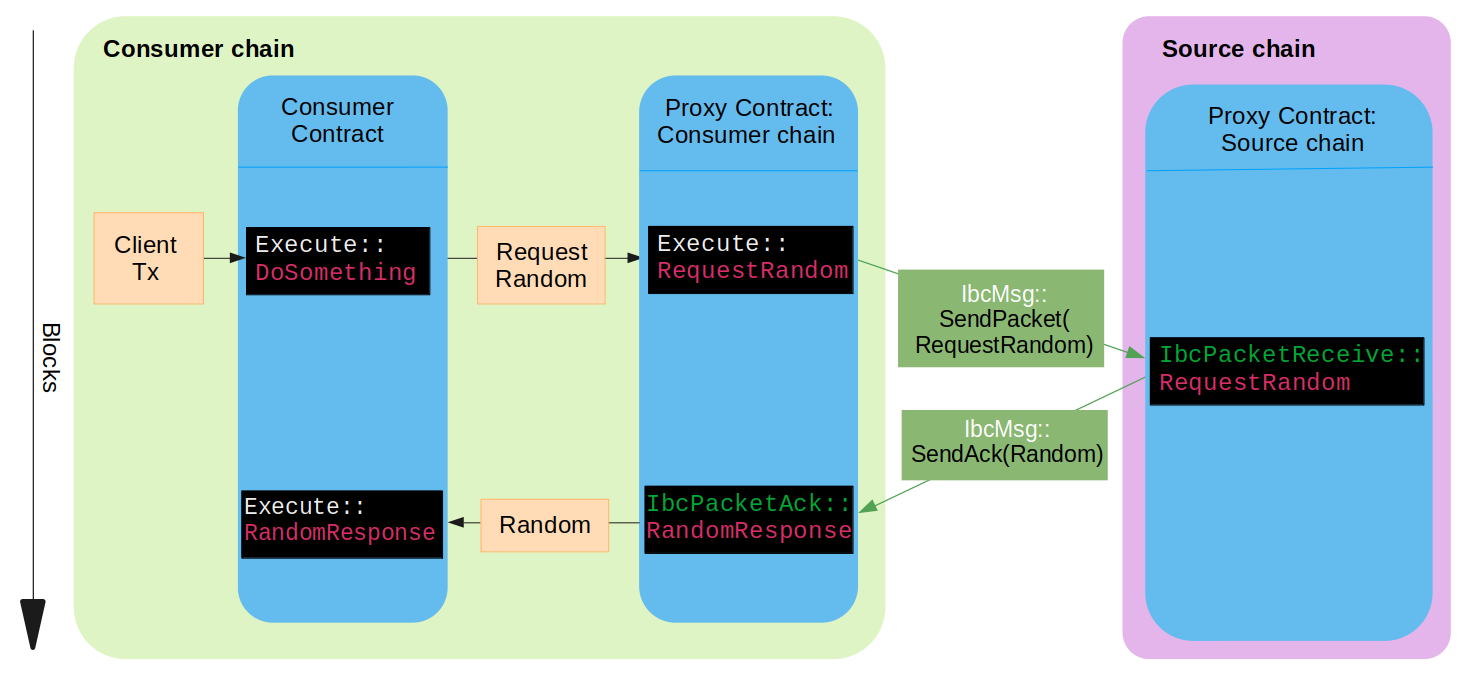
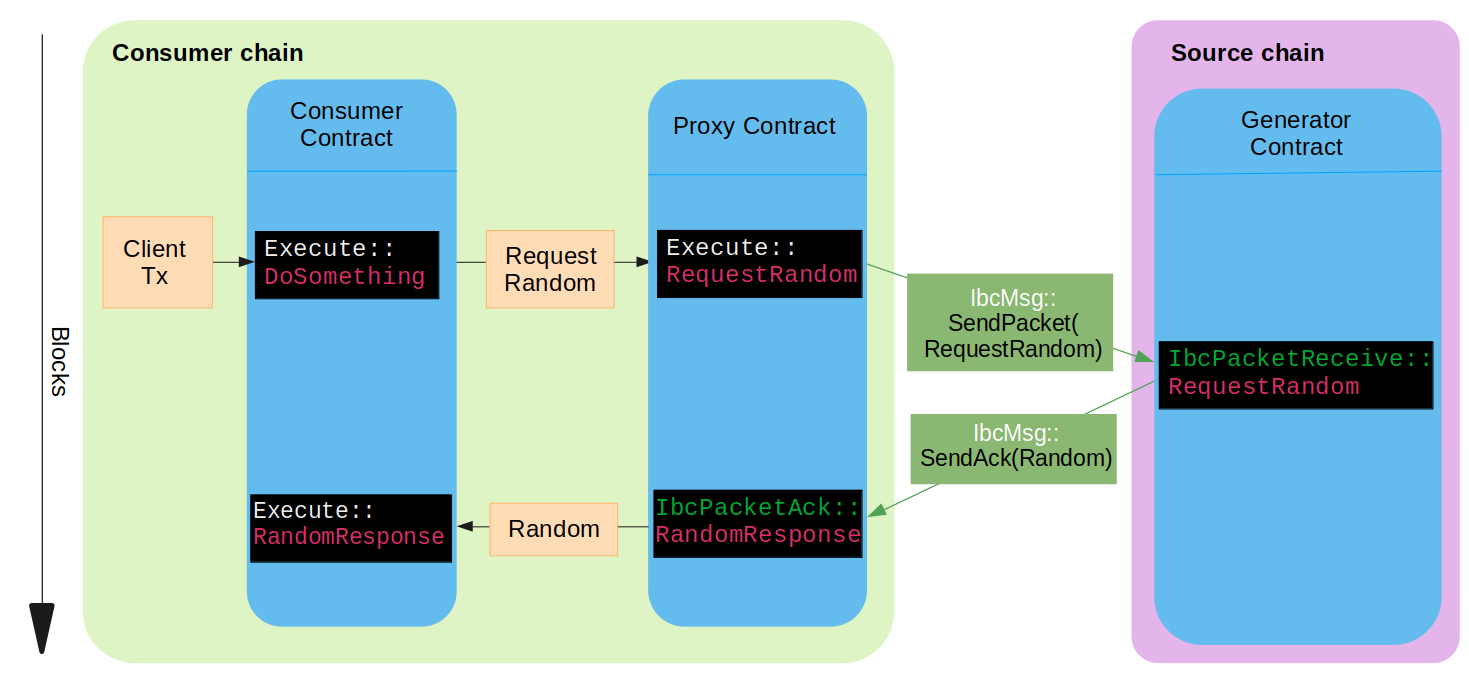
README and diagrma reflect the fact that proxy is now different from generator

Changed region(s): [[0.0, 0.0, 1.0, 0.9926]]

diff --git a/README.md b/README.md
@@ -2,8 +2,13 @@
 
 This repository contains a demo on how to use cross-chain random numbers from Secret Network to another chain via IBC. 
 
-The system consists of two localsecret chains, that simulate Secret Network and a consumer chain. In addition, there are two smart contracts:
+The system consists of two localsecret chains, that simulate Secret Network and a consumer chain. 
 
+Three smart contracts are working together:
+In the Source chain (Secret Network):
+* **Generator Contract**: Responsible for generating a random number from Secret Network and sending it to the Proxy via IBC.
+ 
+In the Destination chain:
 * **Proxy Contract**: Responsible for fetching the random number from Secret Network via IBC.
 * **Consumer Contract**: A contract that represents an application on the consuming chain, which uses the random numbers generated by the proxy contract.
 
